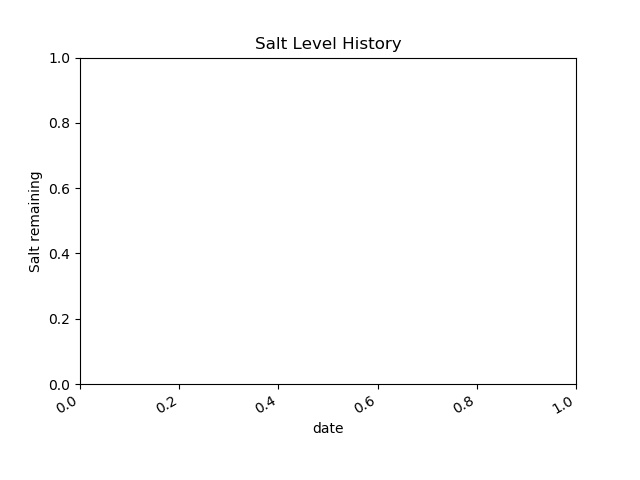
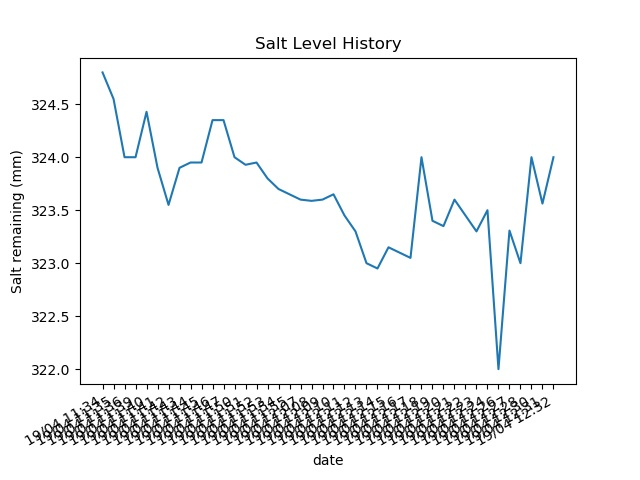
Working version with dates rotated - too crowded.

diff --git a/graphing/graphing.py b/graphing/graphing.py
@@ -10,6 +10,7 @@ class SaltPlotter:
     def __init__(self, max_plot_points):
         matplotlib.pyplot.rcParams["savefig.format"] = 'svg'
         self.max_plot_points = max_plot_points
+        self.label_increment = 10
 
     def plot_save(self, long_term_data, file_name):
 
@@ -17,9 +18,15 @@ class SaltPlotter:
         x_data = []
         y_data = []
 
+        #x_label = 0
+
         for i in long_term_data:
+            #if x_label % self.label_increment:
             x_data.append(i['datetime'])
-            y_data.append(i['salt_level'])
+            #else:
+            #    x_data.append(' ')
+            y_data.append(float(i['salt_level']))
+            #x_label += 1
 
         # print(x_data, y_data)
 
@@ -29,9 +36,16 @@ class SaltPlotter:
         # rotate and align the tick labels so they look better
         fig.autofmt_xdate()
 
-        # use a more precise date string for the x axis locations in the
-        # toolbar
-        ax.set_title('Salt History')
+        # naming the x axis
+        matplotlib.pyplot.xlabel('date')
+        # naming the y axis
+        matplotlib.pyplot.ylabel('Salt remaining (mm)')
+
+        # giving a title to my graph
+        matplotlib.pyplot.title('Salt Level History')
+
+        matplotlib.pyplot.savefig(file_name)
+
 
 
         '''
@@ -53,7 +67,8 @@ class SaltPlotter:
         matplotlib.pyplot.title('Salt Level History')
 
         matplotlib.pyplot.savefig(file_name)
-        ''' 
+        '''
+
 
 if __name__ == "__main__":
     salt_plotter = SaltPlotter()
